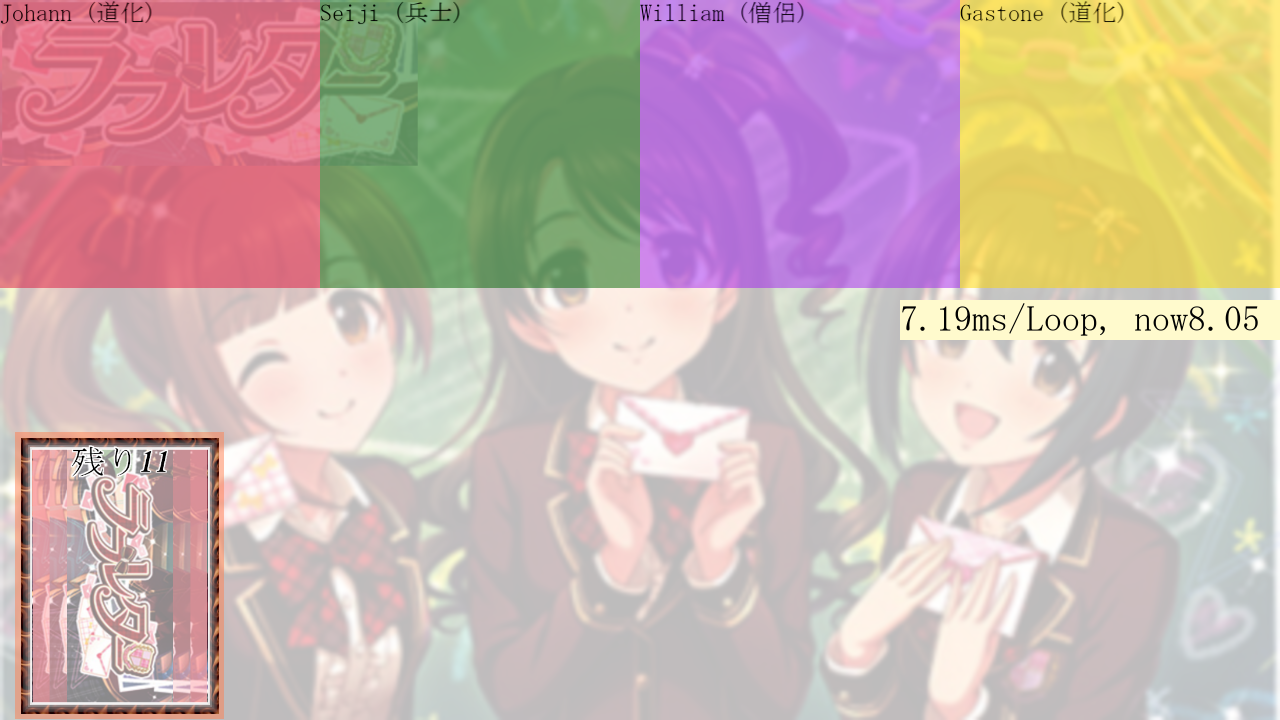
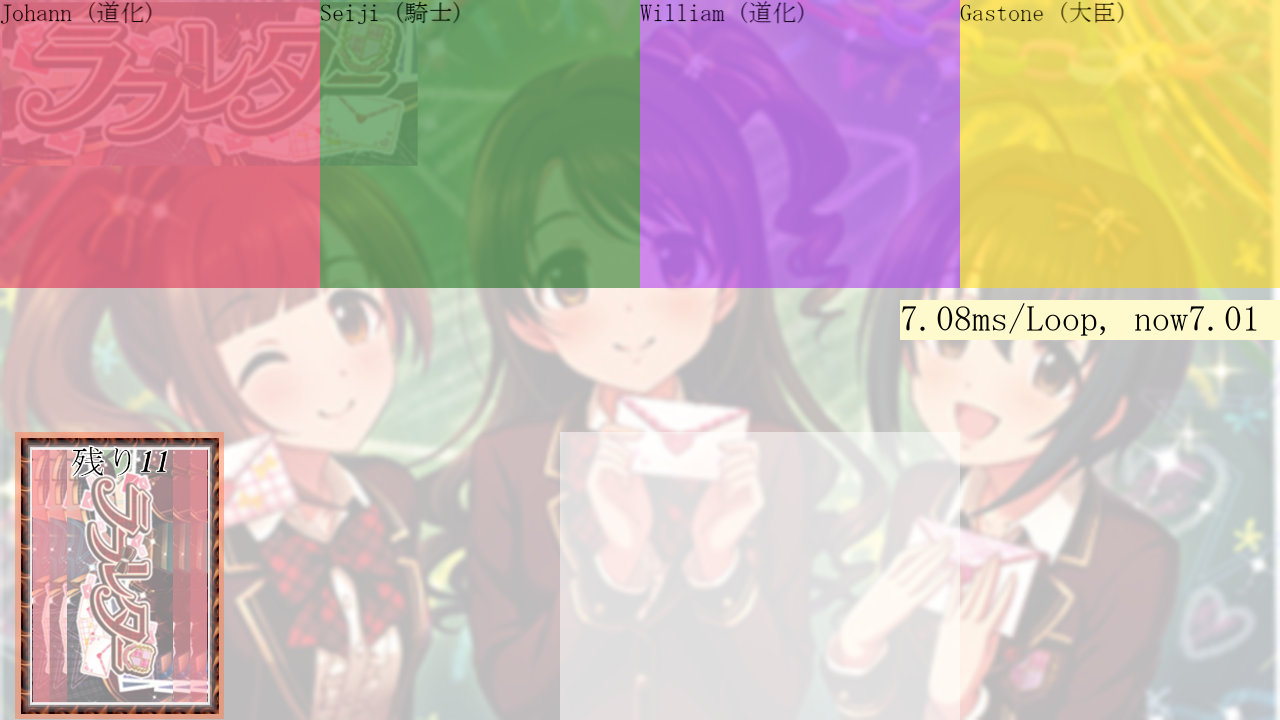
L080:BoardViewにHandSquareを接続

diff --git a/ll/view/board_view.py b/ll/view/board_view.py
@@ -3,61 +3,68 @@ from pygame import Rect
 from any.screen import screen, WX, WY
 from any.pictures import IMG_BG
 from model.board import Board
+from model.kard import Kard, EMPTY_KARD
 from model.player import Player
-from view.player_square import PlayerSquare
 from view.deck_square import DeckSquare
+from view.hand_square import HandSquare
+from view.player_square import PlayerSquare
 from ptc.element import Element
 from ptc.square import Square
 from ptc.bridge import Bridge
 
-_H = WY*2/5
-_D = WX*3/16
+_W = WX / 4
+_H = WY * 2 / 5
+_D = WX * 3 / 16
+_C = WX * 5 /16
 
-from ptc.view import View
-class BoardView():
+class BoardView:
     def __init__(self, subject: Player, bridge: Bridge) -> None:
         self.subject = subject
         self.bridge = bridge
         self.deck_square = self._deck_square()
         self.subject_square = self._subject_square()
         self.opponents_squares = self._opponents_squares(opponents=self.board.players)
+        self.hand_square = HandSquare(EMPTY_KARD, EMPTY_KARD, Rect(_D+_W, WY-_H, _C, _H), self.bridge)
         self.squares: list[Square] = [
-            square for square in (self.deck_square, self.subject_square, *self.opponents_squares)
+            square for square in (self.deck_square, self.subject_square, *self.opponents_squares, self.hand_square)
             if square is not None
         ]
 
     def rearrange(self) -> None:
+        """レイアウトの再配置を行います"""
         ...
 
     def get_hover(self) -> Element | None:
+        """ホバー中の要素を取得します"""
         for square in self.squares:
             if element := square.get_hover():
                 return element
         return None
 
     def draw(self) -> None:
+        """ボードを描画します"""
         screen.blit(source=IMG_BG, dest=[0, 0])
         for square in self.squares:
             square.draw()
-        # if hover := self.get_hover():
-        #     screen.fill(color=(255, 0, 0), rect=((hover.dest)-(10, 10), (20, 20)))
 
     def elapse(self) -> None:
+        """時間経過の処理を行います"""
         ...
 
     def _deck_square(self) -> DeckSquare:
-        return DeckSquare(deck=self.board.deck, rect=Rect(0, WY-_H, _D, _H))
-    
+        return DeckSquare(deck=self.board.deck, rect=Rect(0, WY - _H, _D, _H))
+
     def _subject_square(self) -> PlayerSquare | None:
         return PlayerSquare(
-            player=self.subject, rect=Rect(_D, WY-_H, WX/4, _H), bridge=self.bridge,
+            player=self.subject, rect=Rect(_D, WY - _H, _W, _H), bridge=self.bridge,
         ) if self.subject in self.board.players else None
 
     def _opponents_squares(self, opponents: list[Player]) -> list[PlayerSquare]:
-        w = WX/len(opponents)
+        opponents = [player for player in opponents if player != self.subject]  # 主題を除外
+        w = WX / len(opponents)
         pss = [PlayerSquare(
             player=player,
-            rect=Rect(w*i, 0, w, _H),
+            rect=Rect(w * i, 0, w, _H),
             bridge=self.bridge,)
             for i, player in enumerate(opponents)]
         for pq in pss:
@@ -67,7 +74,7 @@ class BoardView():
                 board_view=self,
                 player=pq.player,
                 pq=pq,
-                suffix=lambda:None,
+                suffix=lambda: None,
             ).action
         return pss
 

diff --git a/ll/view/hand_square.py b/ll/view/hand_square.py
@@ -1,0 +1,34 @@
+from pygame import Rect, Surface, SRCALPHA, transform
+
+from any.screen import screen
+from any.func import rect_fill, ratio_rect, translucented_color, cursor_in_rect
+from any.font import MS_MINCHO_COL
+from model.kard import Kard
+from model.player import Player, OBSERVER
+from ptc.bridge import Bridge
+from ptc.element import Element
+
+from ptc.square import Square
+class HandSquare():
+    _RATIO = (400, 288)
+    _LOG_RATIO = (136, 190)
+
+    def __init__(self, player_kard: Kard, draw_kard: Kard, rect: Rect, bridge: Bridge) -> None:
+        self.player_kard = Kard
+        self.draw_kard = Kard
+        self.rect = ratio_rect(rect=rect, ratio=self._RATIO)
+        self.bridge = bridge
+        print(self.rect)
+
+    def get_hover(self) -> Element | None:
+        return None
+
+    def draw(self) -> None:
+        rect_fill(color=translucented_color("white"), rect=self.rect)
+        # screen.fill(color=translucented_color("white"), rect=self.rect)
+        # if self.player != self._now_player:
+        #     self.player = self._now_player
+        #     self.img = self._img()
+        # screen.blit(source=self.img, dest=self.rect)
+        # for log_square in self.log_squares:
+        #     log_square.draw()

diff --git a/ll/view/turn_start_view.py b/ll/view/turn_start_view.py
@@ -2,7 +2,7 @@ from pygame import Surface, Vector2 as V2, SRCALPHA, Rect
 from typing import Callable
 
 from any.font import MS_MINCHO_COL
-from any.func import rect_fill
+from any.func import rect_fill, translucented_color
 from any.screen import screen, WX, WY, FRAMES_PER_SECOND
 from any.timer_functions import frames
 from ptc.element import Element
@@ -70,7 +70,7 @@ class TurnStartView():
 
     def _img_band(self) -> Surface:
         img = Surface(size=(WX, _BAND_H), flags=SRCALPHA)
-        rect_fill(color="white", rect=Rect(0, 0, WX, _BAND_H), surface=img)
+        rect_fill(color=translucented_color("white"), rect=Rect(0, 0, WX, _BAND_H), surface=img)
         return img
 
     def _img_title(self) -> Surface:

diff --git a/ll/any/func.py b/ll/any/func.py
@@ -16,8 +16,8 @@ def ratio_rect(rect: Rect, ratio: tuple[int | float, int | float]) -> Rect:
     w, h = (ratio[0]*rect.h/ratio[1], rect.h) if rect.w*ratio[1] > rect.h*ratio[0] else (rect.w, ratio[1]*rect.w/ratio[0])
     return Rect(rect.left+(rect.w-w)/2, rect.top+(rect.h-h)/2, w, h)
 
-def translucented_color(color: Color, a: int=128) -> Color:
-    ret = deepcopy(color)
+def translucented_color(color: ColorValue, a: int=128) -> Color:
+    ret = deepcopy(Color(color))
     ret.a = int(a)
     return ret
 
